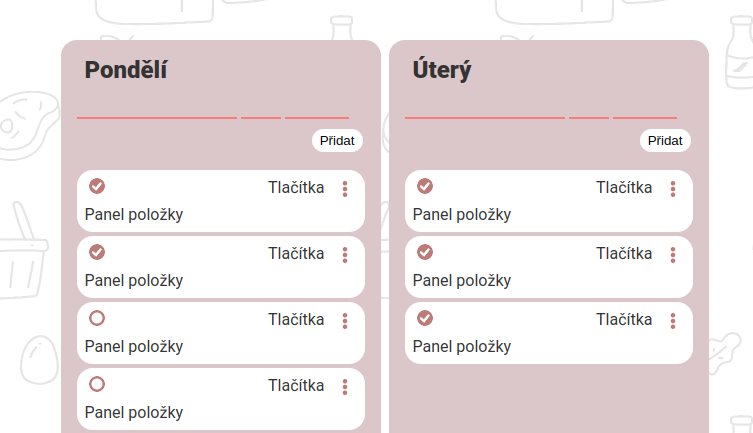
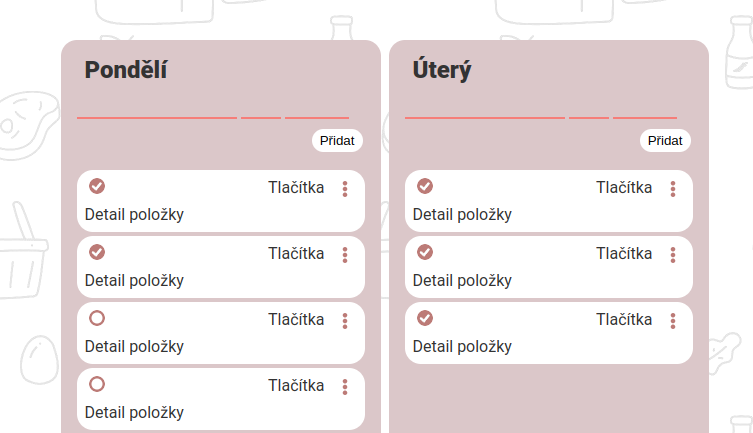
Oprava zadání

diff --git a/js2/webpack/cvlekce/rozbaleni-polozky/exercise.md b/js2/webpack/cvlekce/rozbaleni-polozky/exercise.md
@@ -6,8 +6,7 @@ demand: 3
 Ještě než se pustíme do dotazů typu PATCH, procvičíme si samotné překreslování komponenty `ListItem`. Budeme chtít přídat možnost položku seznamu rozbalit a zobrazit další ovládací prvky. Se serverem v tomto cvičení zatím komunikovat nebudeme.
 
 1. Založte si vlastní repozitář, který vyrobte ze šablony [projekt-nakupy-patch](https://github.com/Czechitas-podklady-WEB/projekt-nakupy-patch), tedy z aktuální verze naší aplikace _Nákupy_.
-1. Upravte vytváření hlavního DOM elementu v komponentě `ListItem` tak, že přidáme tlačítko pro rozbalení položky, tlačítka panelu nástrojů a panel pro zobrazení detailu.
-
+1. Upravte vytváření hlavního DOM elementu v komponentě `ListItem` tak, že přidáme tlačítko pro rozbalení položky, tlačítka panelu nástrojů a detail položky.
    ```
    const element = document.createElement('div');
      element.classList.add('list-item');
@@ -21,8 +20,8 @@ Ještě než se pustíme do dotazů typu PATCH, procvičíme si samotné překre
          <div class="list-item__product">${product}</div>
          <div class="list-item__amount">${amount} ${unit}</div>
        </div>
-       <div class="list-item__panel">
-         Panel položky
+       <div class="list-item__detail">
+         Detail položky
        </div>
        <div class="list-item__menu">
          <button class="icon-btn btn-menu"></button>
